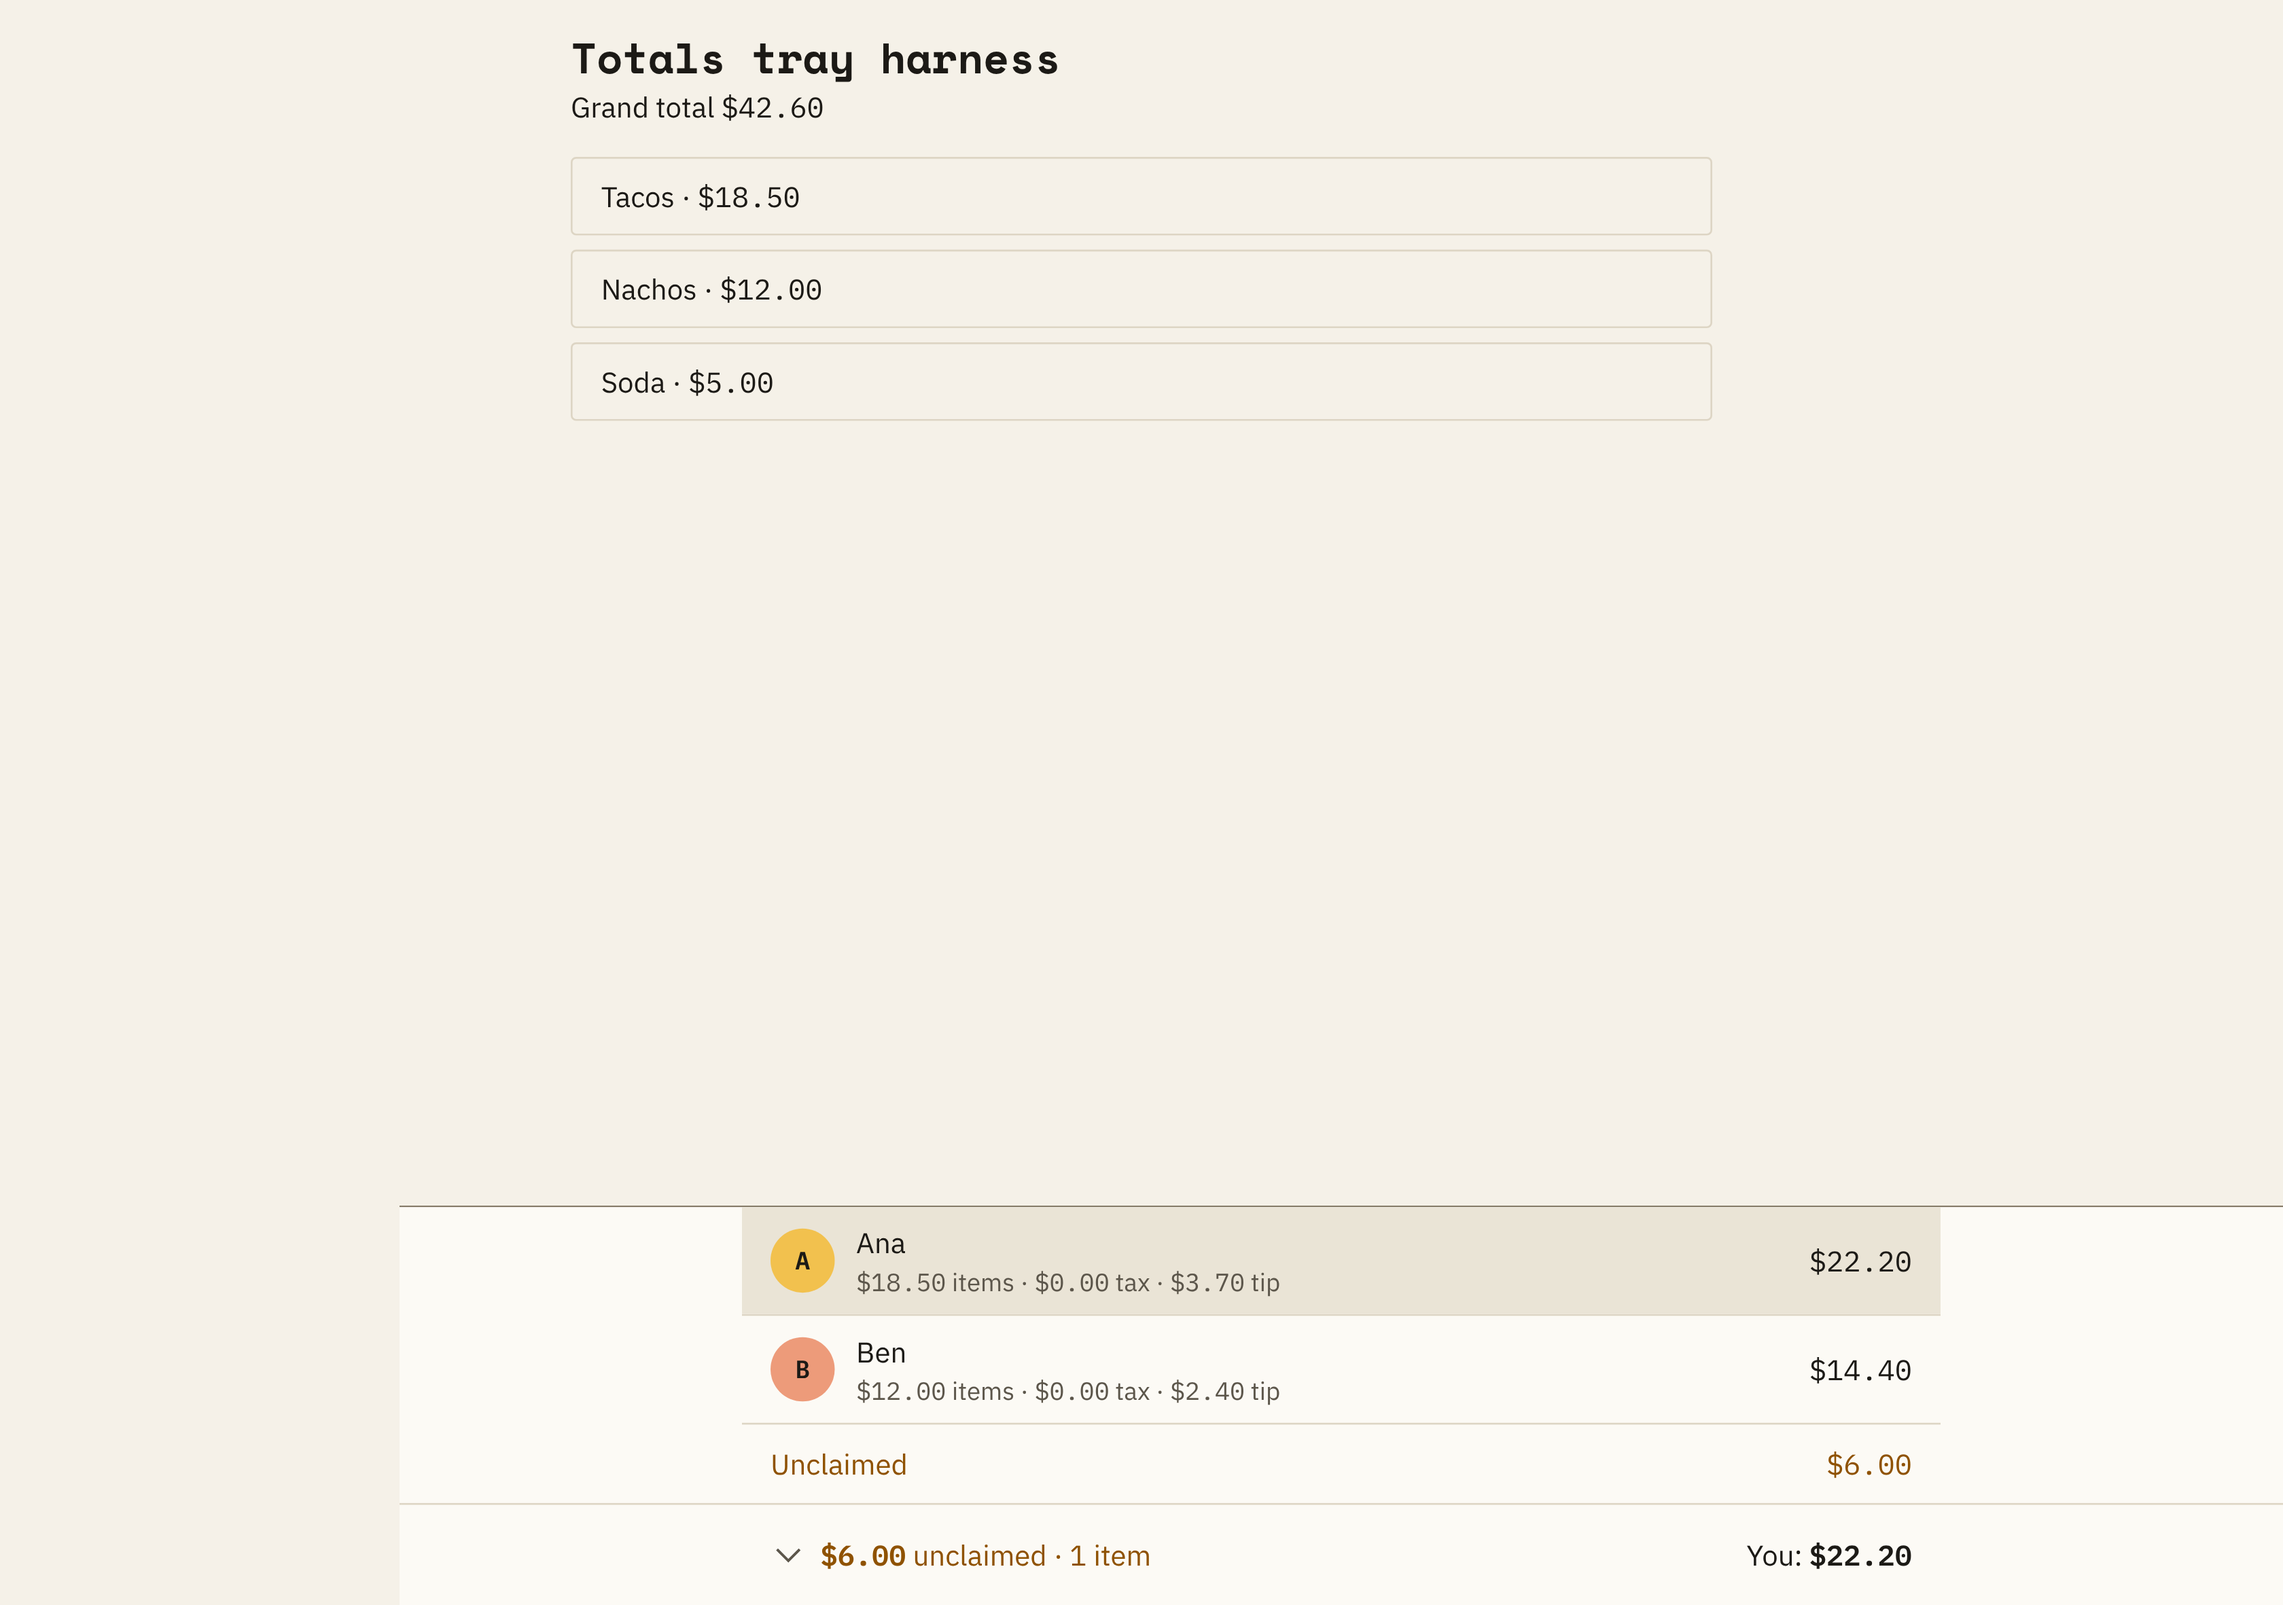
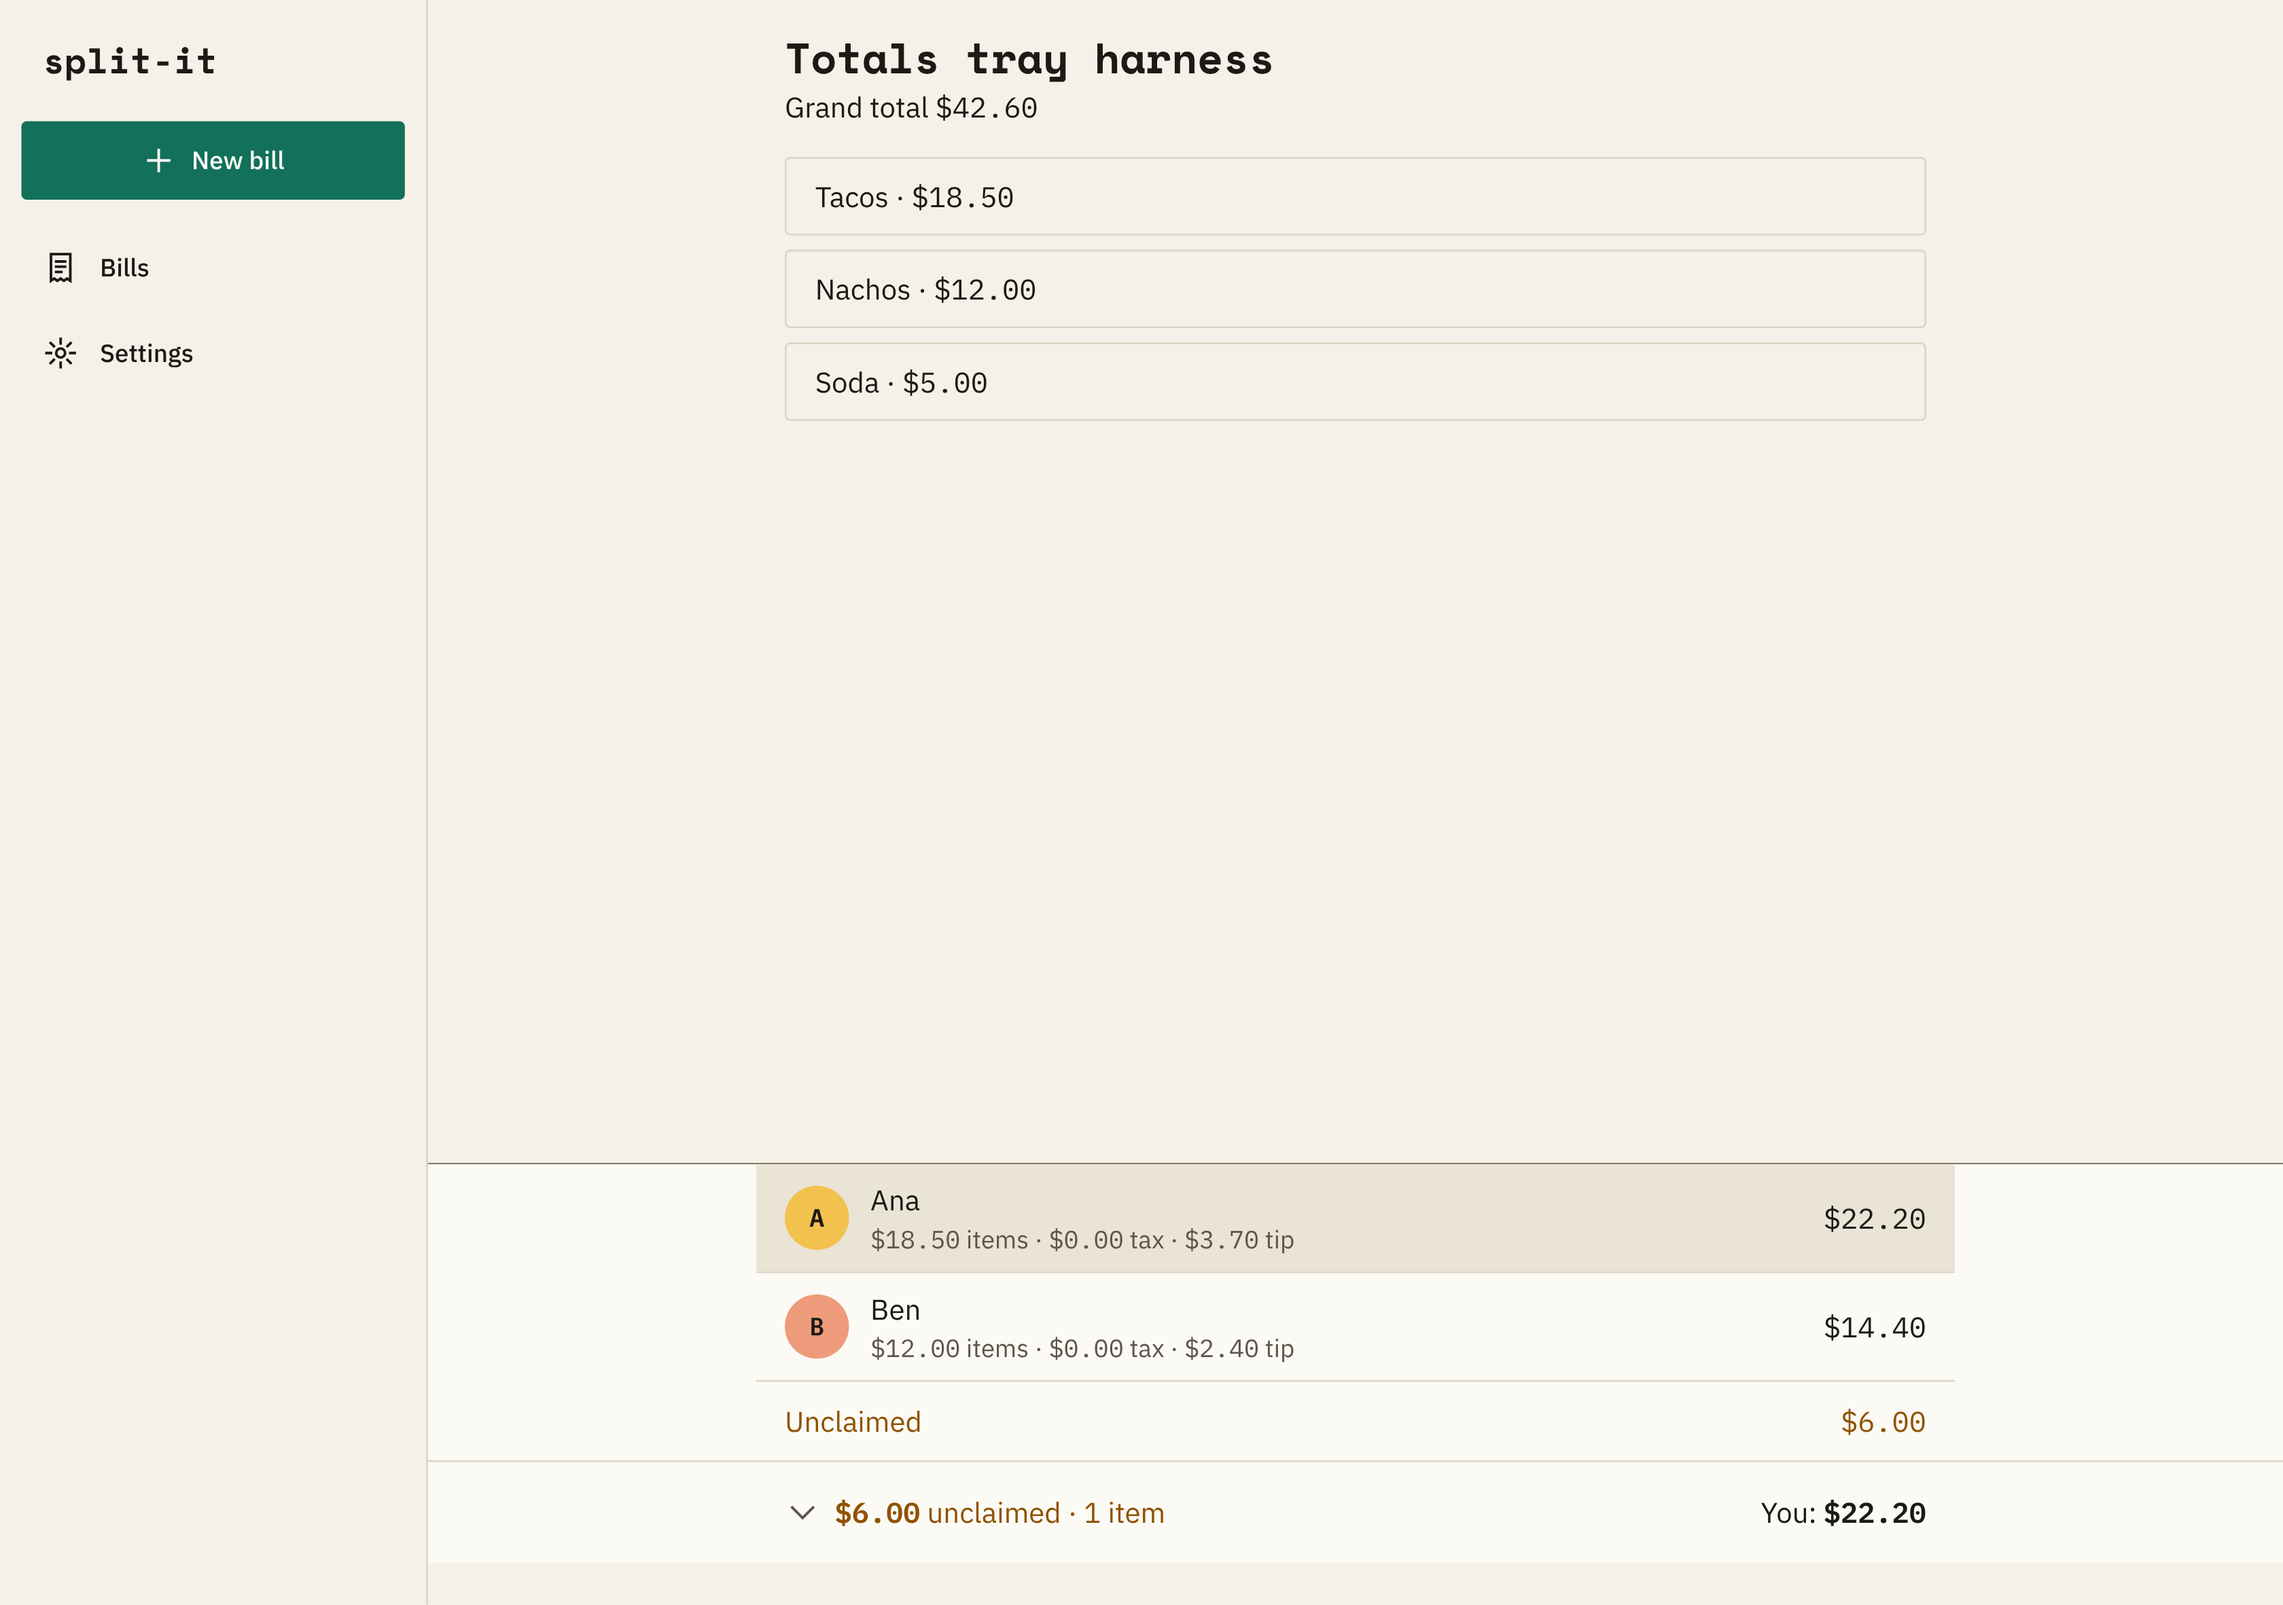
fix: dock totals tray with BOTTOM_BAR_CLEARANCE and clear the nav rail
Claude-Session: https://claude.ai/code/session_01UGnbKian97powptsUDNTP9

diff --git a/app/components/split/TotalsTray.tsx b/app/components/split/TotalsTray.tsx
@@ -10,10 +10,11 @@
 import { useId, useRef, useState } from "react";
 import { useSplit } from "@/lib/hooks";
 import { initials } from "@/lib/people";
+import { BOTTOM_BAR_CLEARANCE } from "@/app/components/nav/tabs";
 import { Avatar, ChevronGlyph, Money } from "@/app/components/ui";
 
-// Same slot as the Toast and the StepNav: #11's BOTTOM_BAR_CLEARANCE replaces this once it lands.
-const DOCK_BOTTOM = "bottom-[calc(5.75rem+env(safe-area-inset-bottom))] md:bottom-0 md:left-56";
+// Docks in the StepNav's slot (#11); at md the content column starts past the 15rem NavRail.
+const DOCK = `${BOTTOM_BAR_CLEARANCE} md:left-60`;
 const DRAG_THRESHOLD_PX = 24;
 
 export interface TotalsTrayProps {
@@ -58,7 +59,7 @@ export default function TotalsTray({ billId, activePersonId, onSelectPerson }: T
       <section
         aria-label="Totals"
         data-testid="totals-tray"
-        className={`fixed inset-x-0 z-20 border-t border-rule-strong bg-raised ${DOCK_BOTTOM}`}
+        className={`fixed inset-x-0 z-20 border-t border-rule-strong bg-raised ${DOCK}`}
       >
         {expanded && (
           <div
